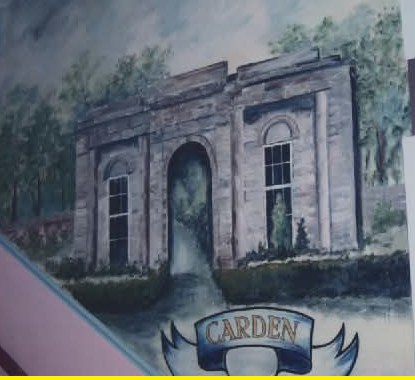
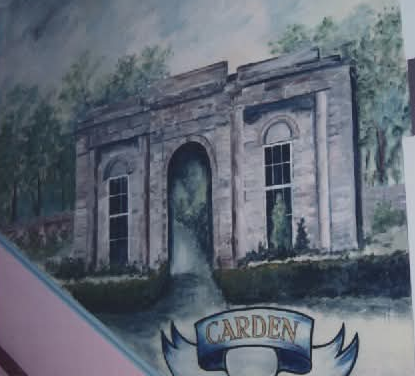
Murals

diff --git a/DEVELOPMENT.md b/DEVELOPMENT.md
@@ -470,3 +470,9 @@ buildings** in Locations, or open `aerial.html?view=greenhouses`; use
 Run `node Browser/test-greenhouses.mjs` for roof, access, collision and layout
 checks. Dimensions and concealed details are estimated from the references;
 Unity and Blender exports are unchanged.
+
+### Ward mural gallery additions, 17 September 2026
+
+Added the supplied Jodrell and Irby / Ashley mural photographs, plus the Tarvin, Carden and second Jodrell views cropped from the marked composite. Originals and crop provenance are retained in `Research/annexe-photos/` and `Research/irby-ashley/`. The photo build script produces the gallery WebP files and the building catalogue assigns them to their existing ward groups.
+
+Validation: `node Browser/test-building-photos.mjs` passes, including source and compiled selection. All five additions loaded in the browser galleries; the three composite crops were visually inspected in their panels. The full browser suite stops at the unrelated road-layout assertion in `Browser/test-annexe-photo-placement.mjs:14` ("Only the yellow-circled rear roads are removed; the loop stays fixed"). No model geometry or Unity/Blender exports changed.

diff --git a/Research/annexe-photos/README.md b/Research/annexe-photos/README.md
@@ -11,7 +11,7 @@ The web gallery uses `Browser/dist/building-photos/annexe-entrance-road.webp`, g
 | Crop | Source rectangle (left, top, width, height) | Gallery |
 | --- | --- | --- |
 | `tarvin-mural.png` | 5, 257, 397, 526 | Tarvin / Jarman |
-| `carden-mural.png` | 410, 8, 415, 380 | Picton / Carden |
+| `carden-mural.png` | 410, 8, 415, 376 | Picton / Carden |
 | `jodrell-mural-stairwell.png` | 428, 399, 499, 379 | Larkton / Jodrell |
 
 Carden is the yellow-outlined upper section, identified by its painted banner. The build script generates matching WebP gallery assets for all three crops. The additional Jodrell view accompanies the earlier standalone image.
